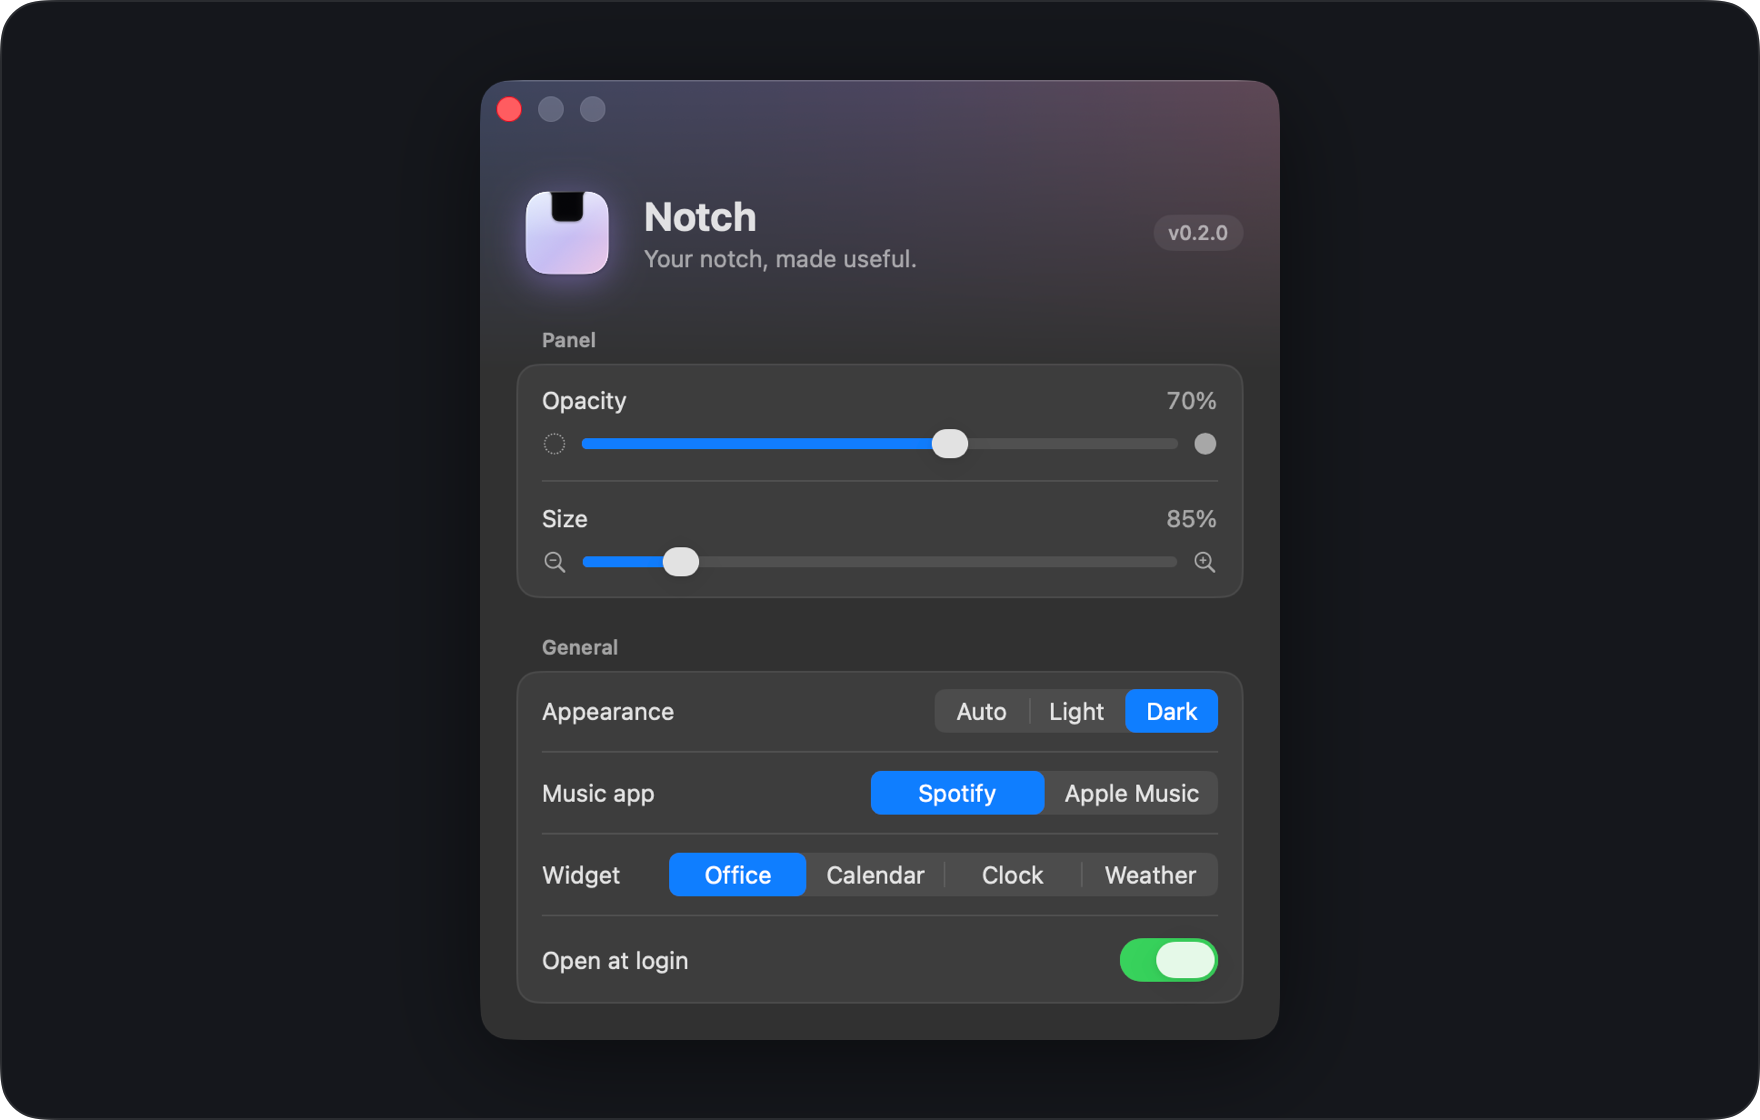
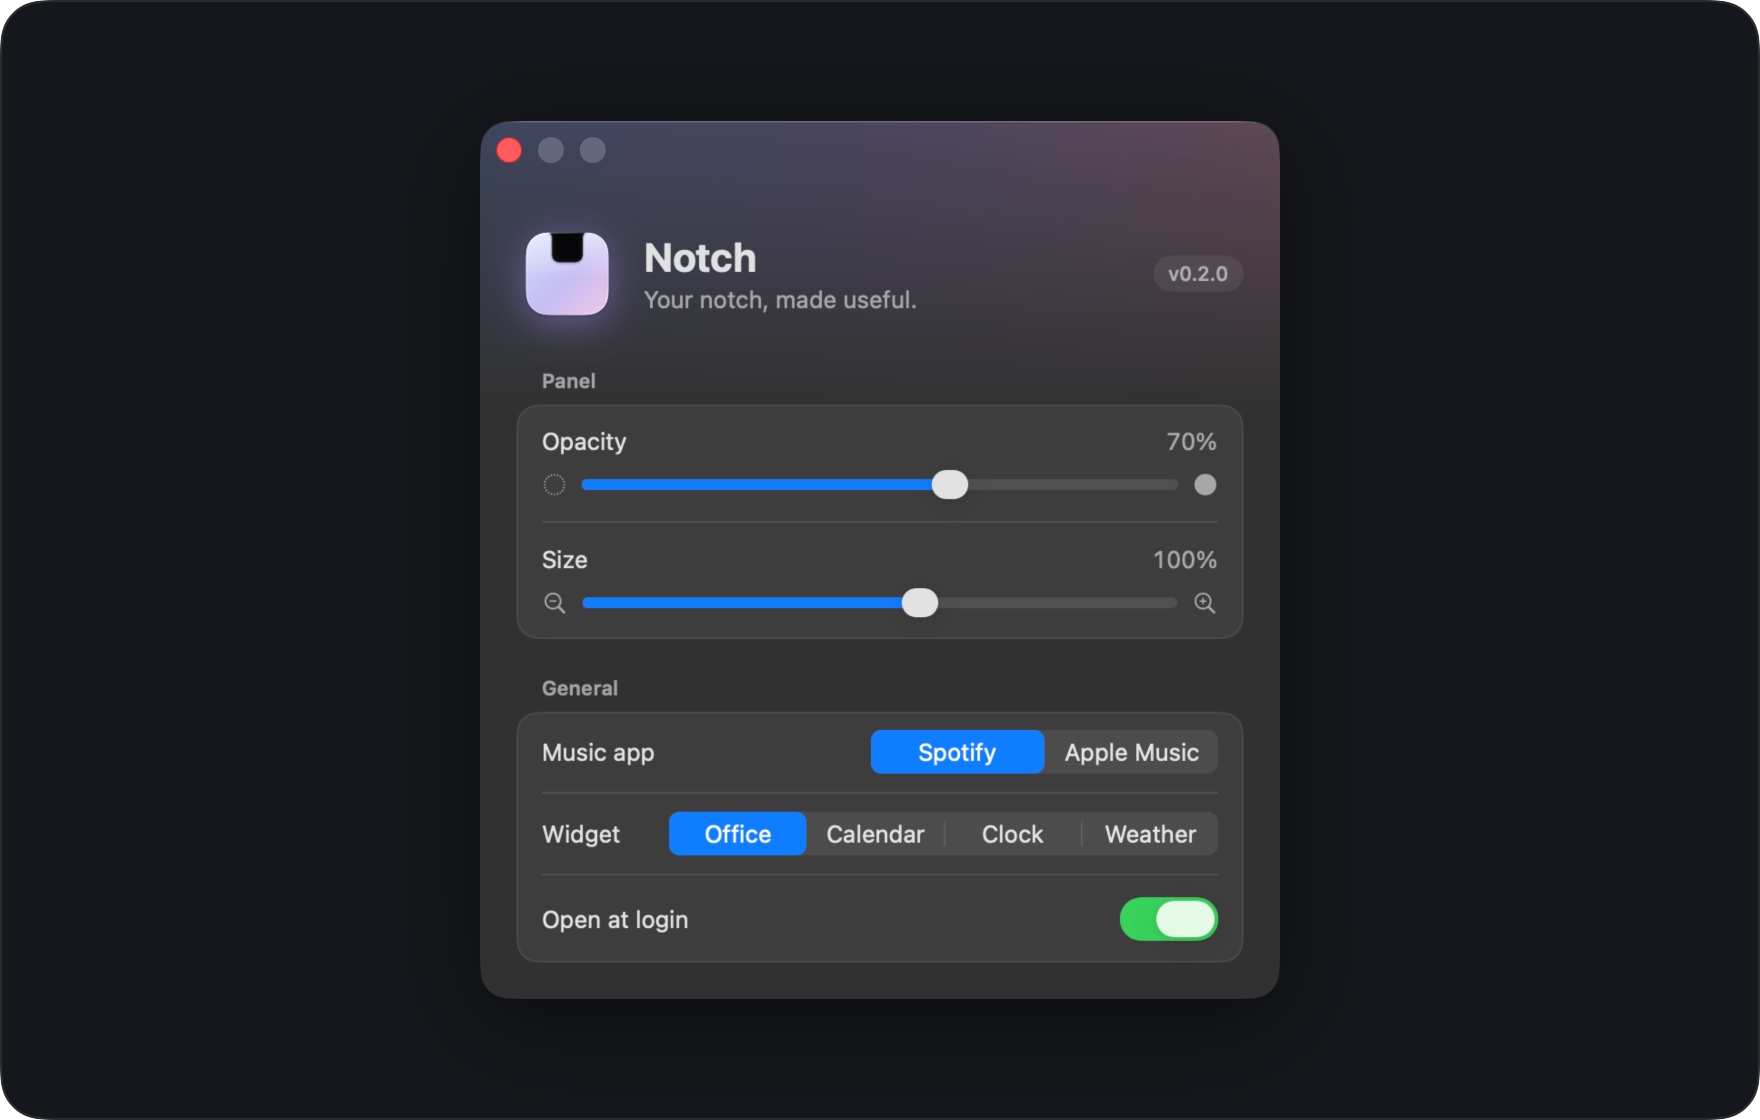
README: dark only, sharper hero GIF, Settings without Appearance; specs marked dark only

Changed region(s): [[0.25, 0.0625, 0.75, 0.9375], [0.6562, 0.1875, 0.6875, 0.25]]

diff --git a/Resources/design/settings-spec.md b/Resources/design/settings-spec.md
@@ -1,4 +1,6 @@
-# Notch Settings window, design spec v1.2
+# Notch Settings window, design spec v1.3
+
+v1.3: the app is dark only (human, 2026-11-08). Appearance row removed from General; General = Music app, Widget, Open at login. Window **483pt** as built (measured 966px at 2x). Every "light" value below is obsolete.
 
 v1.2: Live preview removed (human: no help, wastes space). Music app row added to General (see shortcut-buttons-spec.md). New height and spacing under Window.
 
@@ -14,7 +16,7 @@ Behaviour of all four controls is unchanged. Only layout, wording and visuals ch
 - Title bar hidden: `.titlebarAppearsTransparent = true`, `.titleVisibility = .hidden`, style mask adds `.fullSizeContentView`. Keep `window.title = "Notch Settings"` for the Window menu and VoiceOver.
 - Background: system window background, plus a header wash: horizontal gradient blue → lavender → pink (colours below), opacity 0.22 dark / 0.18 light, 160pt tall (was 240; keeps the wash on the header only), masked by a top-to-bottom black→clear gradient so it fades out.
 - Content starts 52pt below the window top (clears the traffic lights). Side margins 20pt everywhere. Bottom padding 20pt.
-- Height (content-driven, `.fixedSize()`), about **488pt**: 52 top + 56 header + 24 gap + "Panel" title 19 + Panel card 141 + 20 gap + "General" title 19 + General card 137 (Appearance 44, Music app 44, Open at login 46, two 1pt dividers) + 20 bottom. About 505pt while the login or music hint line shows.
+- Height (content-driven, `.fixedSize()`), **483pt** as built (v1.3): 52 top + 56 header + 24 gap + "Panel" title 19 + Panel card 141 + 20 gap + "General" title 19 + General card 136 (Music app 44, Widget 44, Open at login 46, two 1pt dividers) + 20 bottom. About 505pt while the login or music hint line shows. The two cards stay within 5pt of each other, so the balance holds.
 - Vertical rhythm: header → "Panel" title 24pt; card → next section title 20pt; title → its card 6pt. Same 20pt side and bottom margins, so the window reads as header + two equal-weight cards.
 
 ## Colours (from Pam's icon)
@@ -45,14 +47,14 @@ Use the native `Slider` full width (no tick marks: drop `step` from the Slider a
 
 ## 3. Section "General"
 Same section title and card style.
-- Row "Appearance" (44pt high): label left; native segmented `Picker` right, `.pickerStyle(.segmented)`, `.labelsHidden()`, text only: "Auto" (= system), "Light", "Dark". Selected segment uses the system accent (native macOS 26). The mockup's icons and neutral highlight were dropped: SwiftUI's segmented Picker can't show them on macOS.
-- Row "Music app" (44pt): between Appearance and Open at login; spec in shortcut-buttons-spec.md section 4.
+- ~~Row "Appearance"~~ removed in v1.3 (dark only). Old spec, for reference: (44pt high): label left; native segmented `Picker` right, `.pickerStyle(.segmented)`, `.labelsHidden()`, text only: "Auto" (= system), "Light", "Dark". Selected segment uses the system accent (native macOS 26). The mockup's icons and neutral highlight were dropped: SwiftUI's segmented Picker can't show them on macOS.
+- Row "Music app" (44pt): first row, then Widget (widget-slot-spec.md 6A), then Open at login; spec in shortcut-buttons-spec.md section 4.
 - Row "Open at login" (12 top/bottom): label left, native `Toggle` `.toggleStyle(.switch)` right.
   - When status is `.requiresApproval`: a second line, spacing 4, system 11: `exclamationmark.circle.fill` (orange) + "Waiting for your OK in Login Items." (`.secondary`), Spacer, link button "Open System Settings…" (`.buttonStyle(.link)`) that calls `SMAppService.openSystemSettingsLoginItems()`.
   - On error: same line style, `xmark.octagon.fill` red + the error text.
 
 ## Copy (complete)
-Notch · Your notch, made useful. · v<version> · Panel · Opacity · Size · General · Appearance · Auto · Light · Dark · Music app · Spotify · Apple Music · Open at login · Waiting for your OK in Login Items. · Open System Settings…
+Notch · Your notch, made useful. · v<version> · Panel · Opacity · Size · General · Music app · Spotify · Apple Music · Widget · Office · Calendar · Clock · Weather · Open at login · Waiting for your OK in Login Items. · Open System Settings…
 
 ## Not in scope
 No sidebar or tabs: four controls don't need them. Add tabs when a third section appears.

diff --git a/README.md b/README.md
@@ -1,7 +1,4 @@
-<picture>
-  <source media="(prefers-color-scheme: light)" srcset="Resources/readme/banner-light.png">
-  <img src="Resources/readme/banner-dark.png" alt="Notch: your MacBook notch, made useful. The open panel shows now playing and the Office widget.">
-</picture>
+<img src="Resources/readme/banner-dark.png" alt="Notch: your MacBook notch, made useful. The open panel shows now playing and the Office widget.">
 
 <p align="center">
   <img src="Resources/readme/badge-macos.svg" alt="macOS 14+">
@@ -24,29 +21,22 @@
 
 <br>
 
-<picture>
-  <source media="(prefers-color-scheme: light)" srcset="Resources/readme/hero-light.gif">
-  <img src="Resources/readme/hero-dark.gif" alt="The cursor moves to the notch, the panel springs open, and the widget switches from Office to Calendar to Clock">
-</picture>
-<br><br>
-<picture>
-  <source media="(prefers-color-scheme: light)" srcset="Resources/readme/closed-open-light.png">
-  <img src="Resources/readme/closed-open-dark.png" alt="Side by side: the closed notch with album art and equalizer bars, and the same notch opened into the full panel">
-</picture>
+<p align="center">
+  <img width="616" src="Resources/readme/hero-dark.gif" alt="The cursor moves to the notch, the panel springs open, and the widget switches from Office to Calendar to Clock">
+</p>
+
+<img src="Resources/readme/closed-open-dark.png" alt="Side by side: the closed notch with album art and equalizer bars, and the same notch opened into the full panel">
 
 ## Features
 
 <h3 align="center">🎵 Now playing, with bars that hear the music</h3>
 <p align="center">
-  Spotify and Apple Music. Artwork, a scrubbable timeline, and shuffle and repeat that light up when on.<br>
+  Spotify and Apple Music. Artwork, a scrubbable timeline, and shuffle and repeat that turn blue when on.<br>
   The bars follow the real audio, in the album's colour, and cost nothing while paused.<br>
   Plug in, and the closed notch shows a charging pill too.
 </p>
 
-<picture>
-  <source media="(prefers-color-scheme: light)" srcset="Resources/readme/live-light.gif">
-  <img src="Resources/readme/live-dark.gif" alt="The closed notch with album art on the left and four equalizer bars moving to the music on the right">
-</picture>
+<img src="Resources/readme/live-dark.gif" alt="The closed notch with album art on the left and four equalizer bars moving to the music on the right">
 
 <h3 align="center">🧩 One widget, your pick</h3>
 <p align="center">
@@ -54,10 +44,7 @@
   Or choose <b>Calendar</b>, <b>Clock</b> or <b>Weather</b> for your city. Only the one you pick runs.
 </p>
 
-<picture>
-  <source media="(prefers-color-scheme: light)" srcset="Resources/readme/feature-widgets-light.png">
-  <img src="Resources/readme/feature-widgets-dark.png" alt="The four widgets side by side: Office, Calendar, Clock and Weather">
-</picture>
+<img src="Resources/readme/feature-widgets-dark.png" alt="The four widgets side by side: Office, Calendar, Clock and Weather">
 
 <h3 align="center">📥 A shelf for files in transit</h3>
 <p align="center">
@@ -65,10 +52,7 @@
   The shelf survives relaunches.
 </p>
 
-<picture>
-  <source media="(prefers-color-scheme: light)" srcset="Resources/readme/feature-shelf-light.png">
-  <img src="Resources/readme/feature-shelf-dark.png" alt="The shelf tab holding three files, with AirDrop and Clear buttons">
-</picture>
+<img src="Resources/readme/feature-shelf-dark.png" alt="The shelf tab holding three files, with AirDrop and Clear buttons">
 
 <h3 align="center">↗ One click to your apps</h3>
 <p align="center">
@@ -127,13 +111,10 @@ Builds are ad-hoc signed, so macOS may ask again after you rebuild.
 
 ## Settings
 
-<picture>
-  <source media="(prefers-color-scheme: light)" srcset="Resources/readme/feature-settings-light.png">
-  <img src="Resources/readme/feature-settings-dark.png" alt="The Notch Settings window with Panel and General cards">
-</picture>
+<img src="Resources/readme/feature-settings-dark.png" alt="The Notch Settings window with Panel and General cards">
 
 <p align="center">
-  Panel opacity and size · Appearance · Music app · Widget · Open at login
+  Panel opacity and size · Music app · Widget · Open at login
 </p>
 
 <br>

diff --git a/Resources/design/office-overview-spec.md b/Resources/design/office-overview-spec.md
@@ -1,5 +1,7 @@
 # Office overview card, design spec v1.1
 
+> **Dark only (2026-11-08):** the human removed light mode; any light-mode values or checks in this file are obsolete.
+
 v1.1 (as built): the Working pulse is a Core Animation layer, not .symbolEffect.
 
 This card replaces `CalendarWidget` in `HomeView`. It keeps the same container: 170pt wide, 10pt padding (150pt usable), `.glass(RoundedRectangle(cornerRadius: 16, style: .continuous))`, and the same height as the now-playing card. Fonts follow the existing panel: system 11–12, with `.primary` at 1.0, 0.6 and 0.5 opacity.

diff --git a/Resources/design/shuffle-repeat-spec.md b/Resources/design/shuffle-repeat-spec.md
@@ -1,5 +1,7 @@
 # Shuffle and Repeat toggles, design spec v2
 
+> **Dark only (2026-11-08):** the human removed light mode; any light-mode values or checks in this file are obsolete.
+
 **v2 (the human's request):**
 - **Colour:** grey when off, system blue when on. No album tint.
 - **Position:** moved from the artist line into the transport row, to the left of Previous, in the order Shuffle, Repeat, Previous, Play, Next.

diff --git a/Resources/design/widget-slot-spec.md b/Resources/design/widget-slot-spec.md
@@ -1,5 +1,7 @@
 # Widget slot, design spec v1.1
 
+> **Dark only (2026-11-08):** the human removed light mode; any light-mode values or checks in this file are obsolete.
+
 **v1.1 (the human's answers):**
 - **Calendar:** date-only; the events variant is dropped.
 - **Weather:** uses automatic location (CoreLocation, city-level); the typed-city field is dropped.

diff --git a/Resources/audit/visual-audit.md b/Resources/audit/visual-audit.md
@@ -1,5 +1,7 @@
 # Notch visual audit (phase 1, polish only)
 
+> **Dark only (2026-11-08):** the human removed light mode; any light-mode values or checks in this file are obsolete.
+
 **Next:** Jim fixes items 1–3 first. They are about 30 minutes in total and are the most visible.
 
 **Method:**
